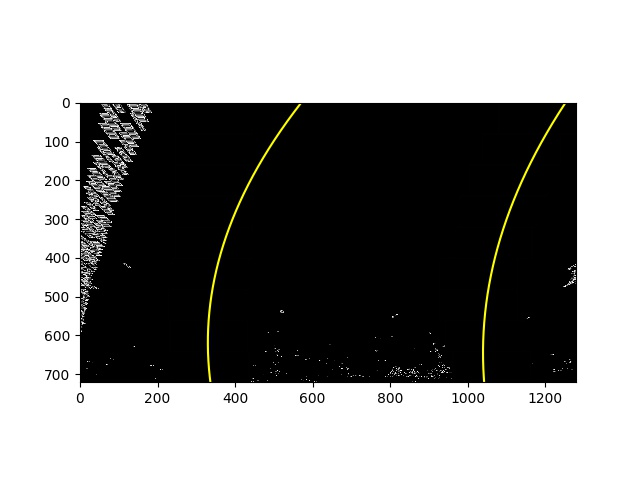
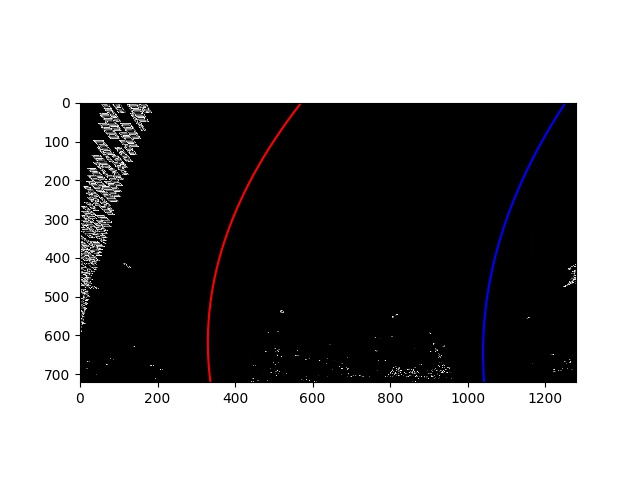
change polynomial fit visualization to red/blue

diff --git a/main.py b/main.py
@@ -177,8 +177,8 @@ def sliding_window(img, histogram, nwindows=9, margin=100, minpix=50, saveFile=0
         # Plot
         plt.figure()
         plt.imshow(out_img)
-        plt.plot(left_fitx, ploty, color='yellow')
-        plt.plot(right_fitx, ploty, color='yellow')
+        plt.plot(left_fitx, ploty, color='red')
+        plt.plot(right_fitx, ploty, color='blue')
         plt.xlim(0, 1280)
         plt.ylim(720, 0)
         plt.savefig(filename)
